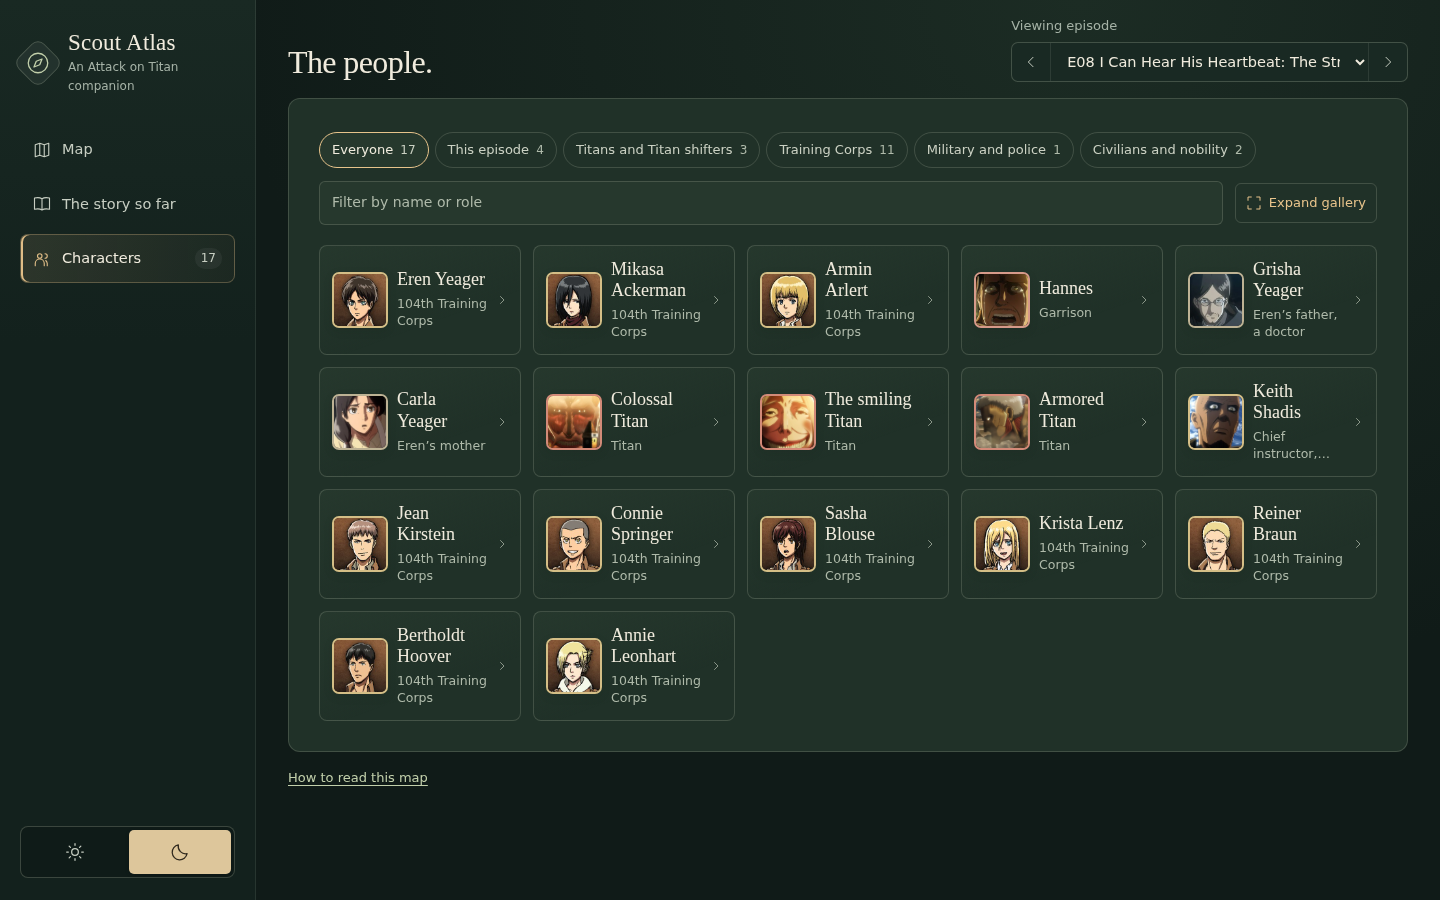
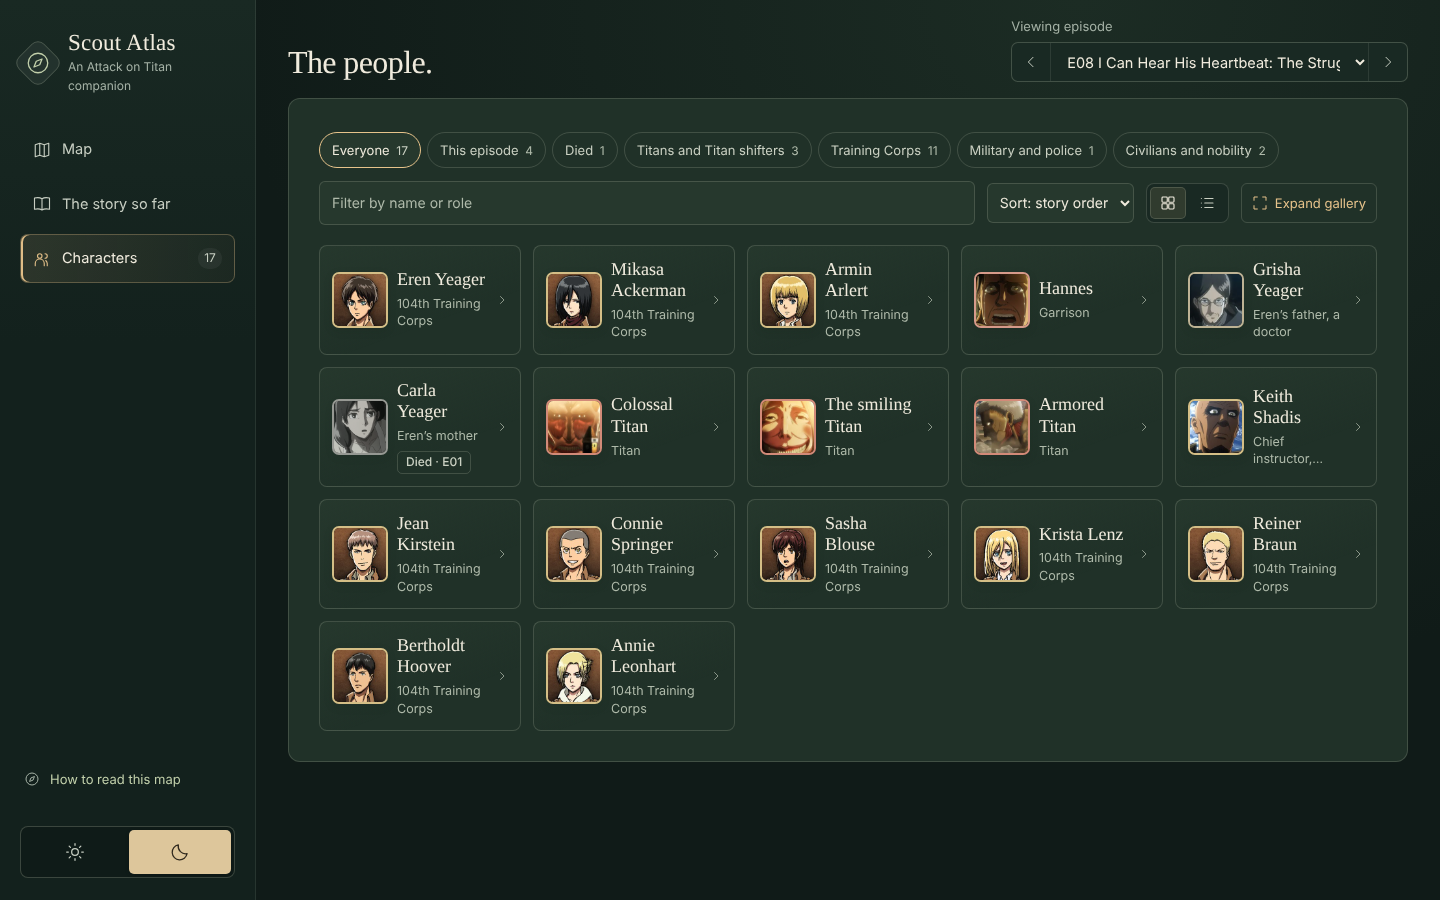
Update the README and its screenshots for the new map, addresses and People
The two screenshots showed the old toolbar, a map half the size, and a People
page with neither the Died filter nor the sort and layout controls; they are
regenerated from the app as a first visit sees it at 1440x900, episode 8.

The README now describes the addresses and how they stay spoiler-safe, People
(Died, sort, cards or list), the grouped Story, the baked small portraits and
the lint's size limits, and the `died` field with what the lint holds it to.

Claude-Session: https://claude.ai/code/session_01LTetD5FMSvNLyDsTeZpNv2

diff --git a/README.md b/README.md
@@ -53,7 +53,10 @@ Plain HTML, CSS, JavaScript and SVG. No build step or dependencies. A Content-Se
 ### How it works
 
 - **Viewing episode** filters everything: map, story, characters and search. New visitors start at episode 1.
-- Settings (episode, theme, layers, map area) stay in this browser's local storage under `scout-atlas:v1`. Nothing is synced.
+- **Addresses** follow where you are: `#/map/<place>`, `#/story` and `#/people/<person>`. Choosing a tab, a place or a person adds a history entry, so Back and Forward work; stepping through episodes does not. The viewing episode is never in an address, so a link cannot spoil anyone, and one that names a place or person you have not reached yet is skipped.
+- **People** can be filtered by group, by this episode, or by **Died** (the deaths the atlas records, which is not every death), sorted by story order or A–Z, and shown as cards or a list. Phones start with the list.
+- **Story** is grouped by season and episode. The newest two episodes are open; older ones fold into one row each.
+- Settings (episode, theme, layers, map area, People sort and layout, the episode trail) stay in this browser's local storage under `scout-atlas:v1`. Nothing is synced.
 - Wall radii follow the scale stated in episode 1. Other distances, terrain and local positions are approximate and labelled as such.
 - A portrait on the map marks the **last recorded** position, not live tracking.
 
@@ -80,18 +83,19 @@ Every item carries an episode threshold, and the app shows only items at or befo
   maxEpisode: 89,
   episodes: [{ number: 4, title: "…", events: [{ locationId: "trost", people: ["eren"], kind: "confirmed" }] }],
   locations: [{ id: "trost", name: "Trost", firstEpisode: 4, x: 600, y: 721.6667 }],
-  characters: [{ id: "eren", firstEpisode: 1, name: [{ from: 1, text: "Eren Yeager" }], positions: [] }],
+  characters: [{ id: "eren", firstEpisode: 1, died: 89, name: [{ from: 1, text: "Eren Yeager" }], positions: [] }],
   status: [{ target: "gate:trost", from: 4, state: "breached" }]
 }
 ```
 
 - `kind` is `confirmed`, `belief` or `approximate`.
 - Versioned fields such as `name`, `role` and `faction` use the latest entry at or before the viewing episode.
+- `died` is the episode from which a character is shown as dead. It adds no claim of its own: the lint requires that episode's role or a note to say so, rejects map positions after it, and requires it wherever a role says someone was killed. A character without `died` has no recorded death, which is not the same as being alive. The episode is where the atlas first records the death, which can be later than the death itself (Marcel's, learned from a memory).
 - The two final specials are ordered as 88 and 89 and shown as **SP1** and **SP2**.
 
 ### Portraits
 
-Official and fan-database art, kept for personal use. Each picture has its own episode threshold, and a silhouette appears before it. To refresh the images (needs Pillow and network access) or rebuild only the manifest:
+Official and fan-database art, kept for personal use. Each picture has its own episode threshold, and a silhouette appears before it. Avatars are shown at 22–88 px, so the files are small WebP squares (the script crops each recorded face and writes at most 160 px), and the gallery loads them as they scroll near; the lint fails any file over 48 KB or a bundle over 640 KB. To refresh the images (needs Pillow and network access) or rebuild only the manifest:
 
 ```bash
 python3 portraits/fetch_portraits.py
